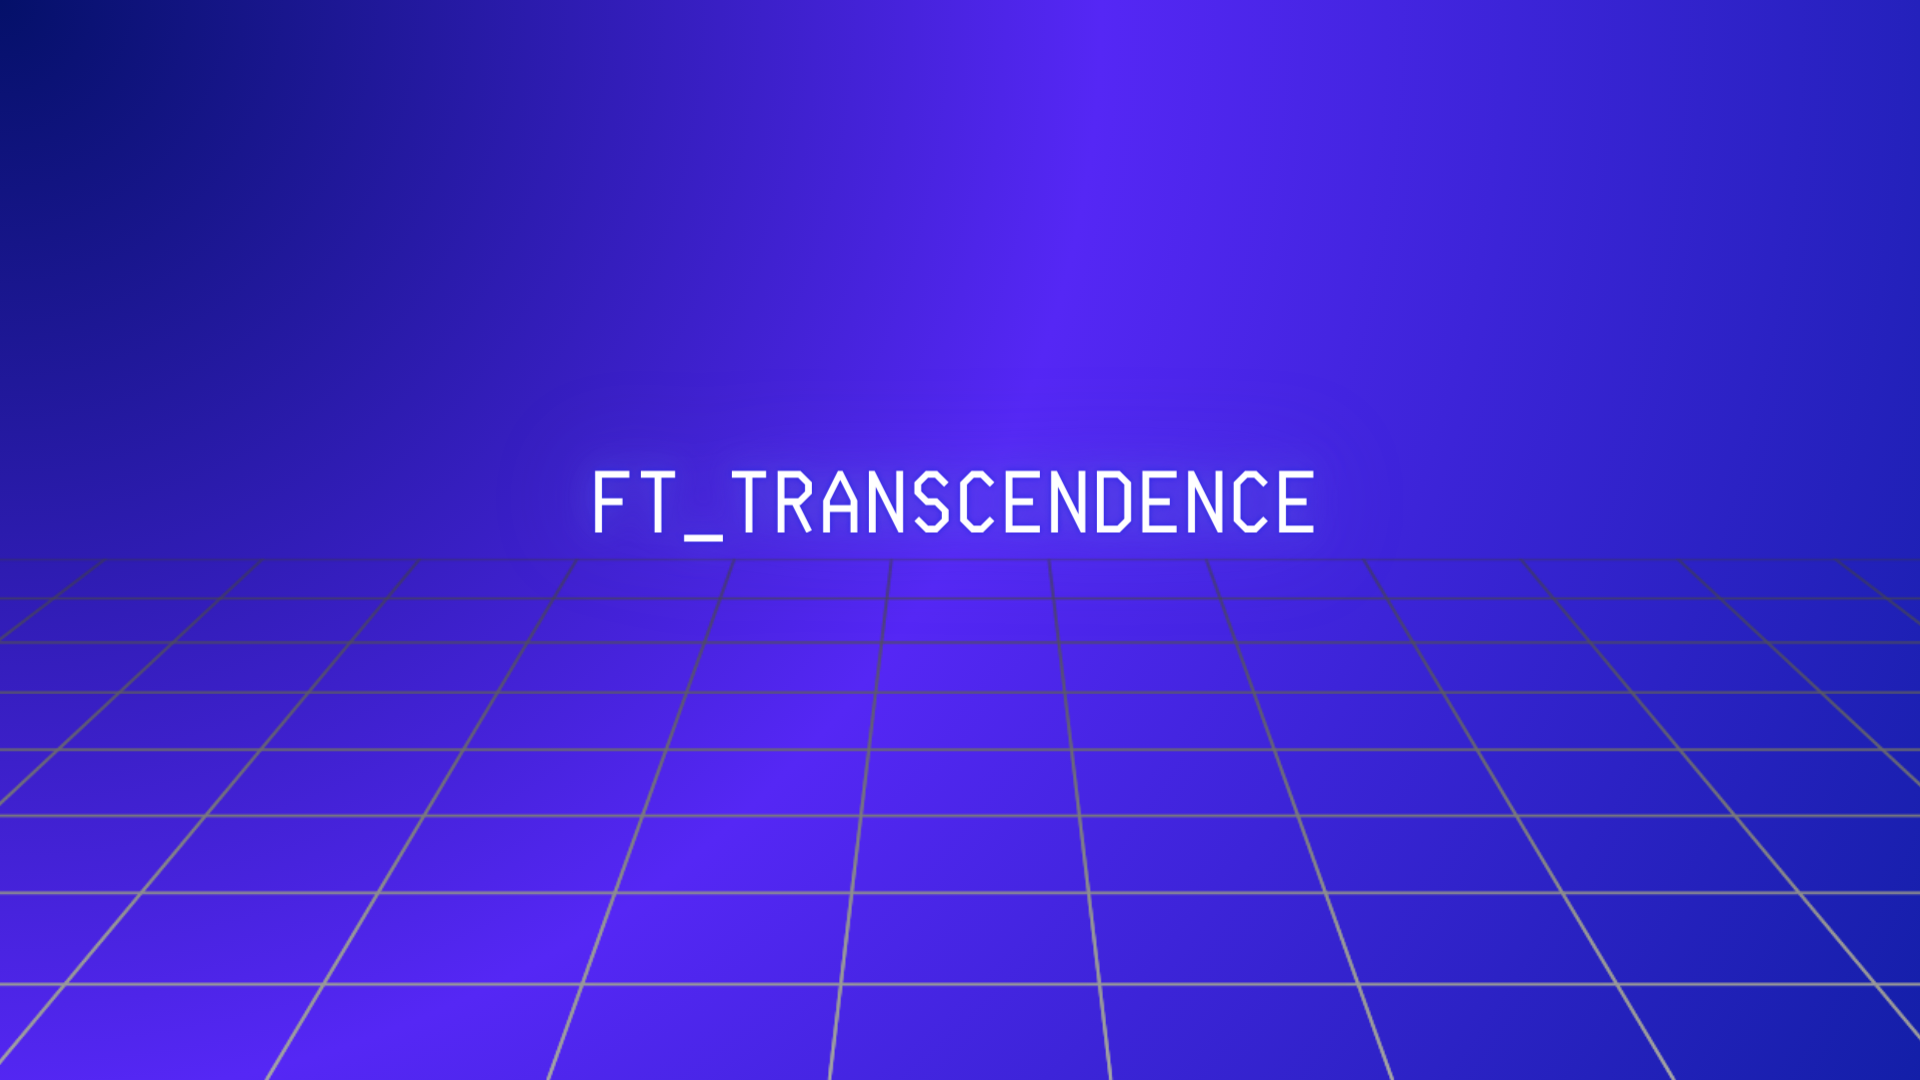
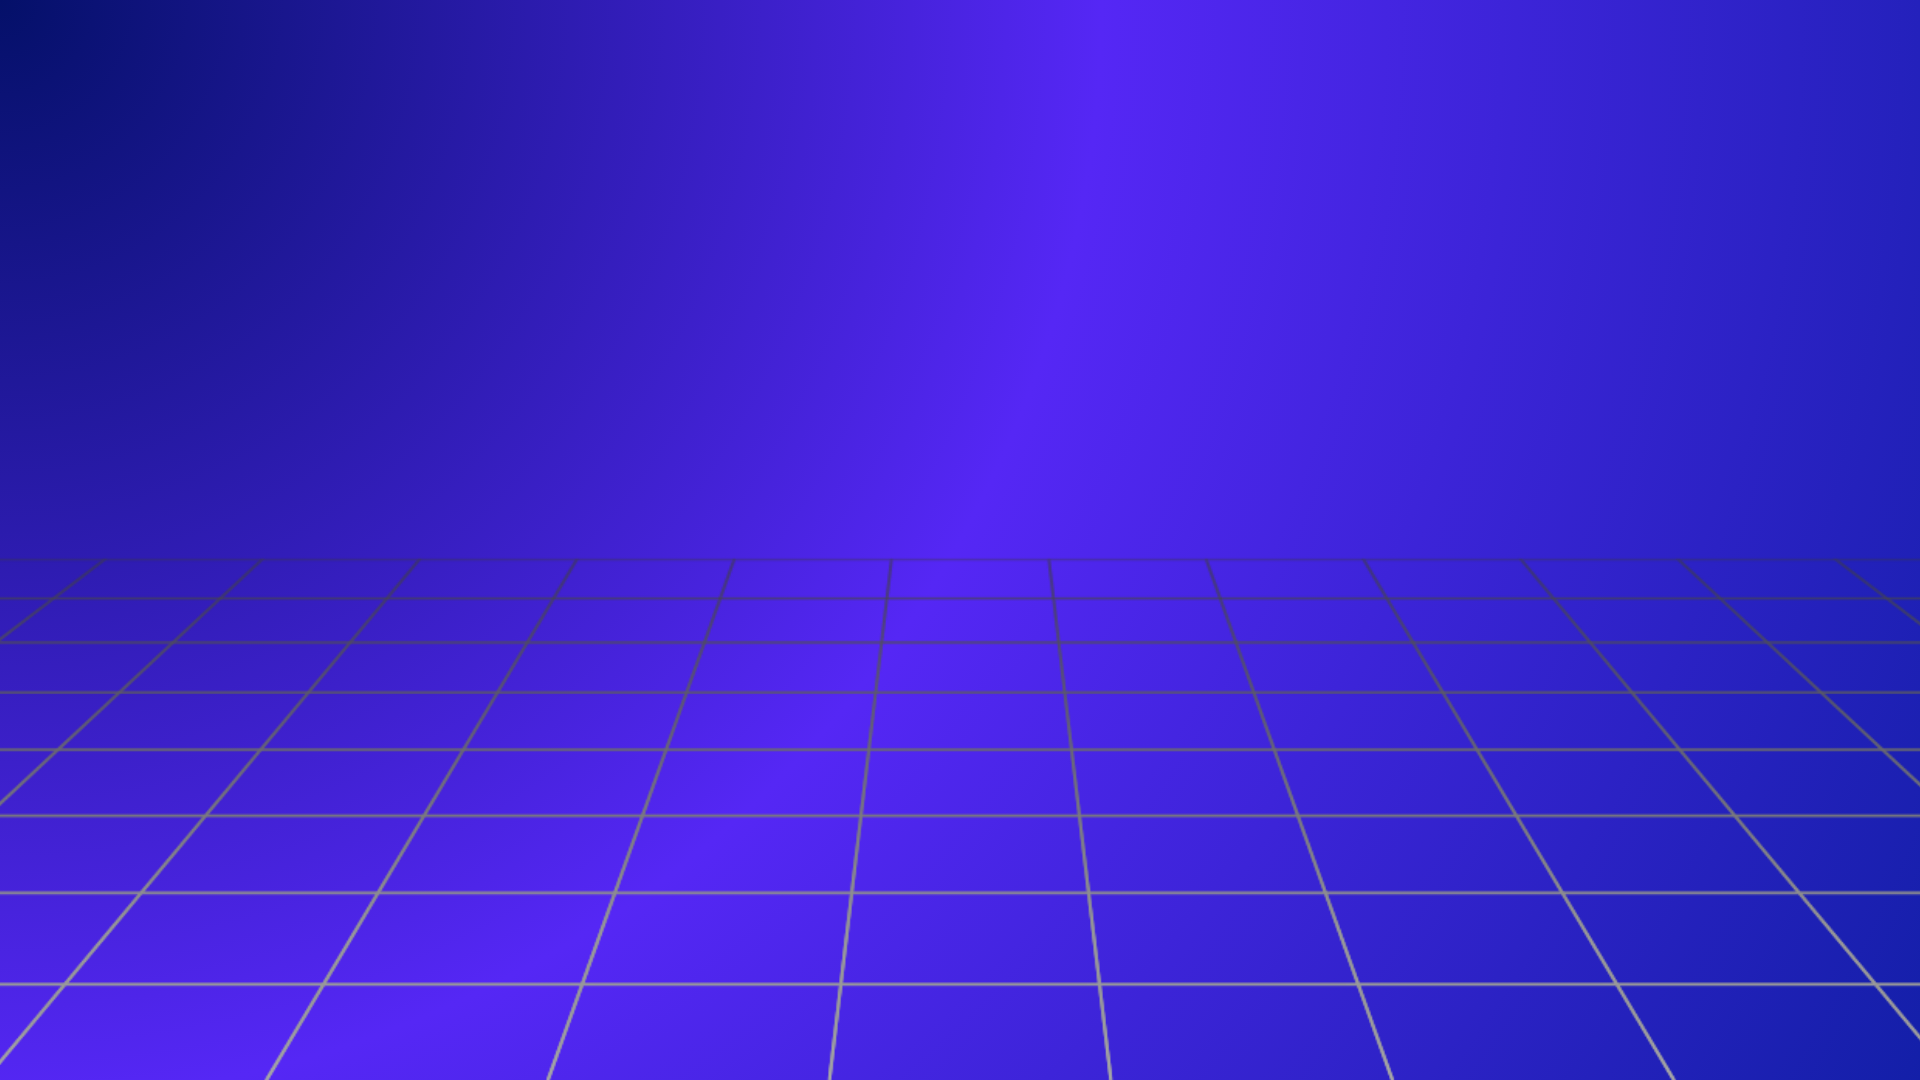
renamend bg

Changed region(s): [[0.375, 0.4278, 0.6875, 0.5194], [0.3125, 0.4278, 0.3438, 0.4889], [0.3438, 0.4889, 0.375, 0.5194]]

diff --git a/frontend/src/App.vue b/frontend/src/App.vue
@@ -15,9 +15,7 @@ import LanguageSelection from './components/common/LanguageSelection.vue'
 
 <style scoped>
 .background-image {
-  /* Adjust the URL to the path of your background image */
-  background-image: url('./assets/backgroundWithoutFont.png');
-  /* Set background size and other properties as needed */
+  background-image: url('./assets/background.png');
   background-size: cover;
   background-position: center;
   width: 100vw;
@@ -25,6 +23,5 @@ import LanguageSelection from './components/common/LanguageSelection.vue'
   position: relative;
   overflow: hidden;
   font-family: 'Courier New', monospace;
-  /* color: white; */
 }
 </style>
